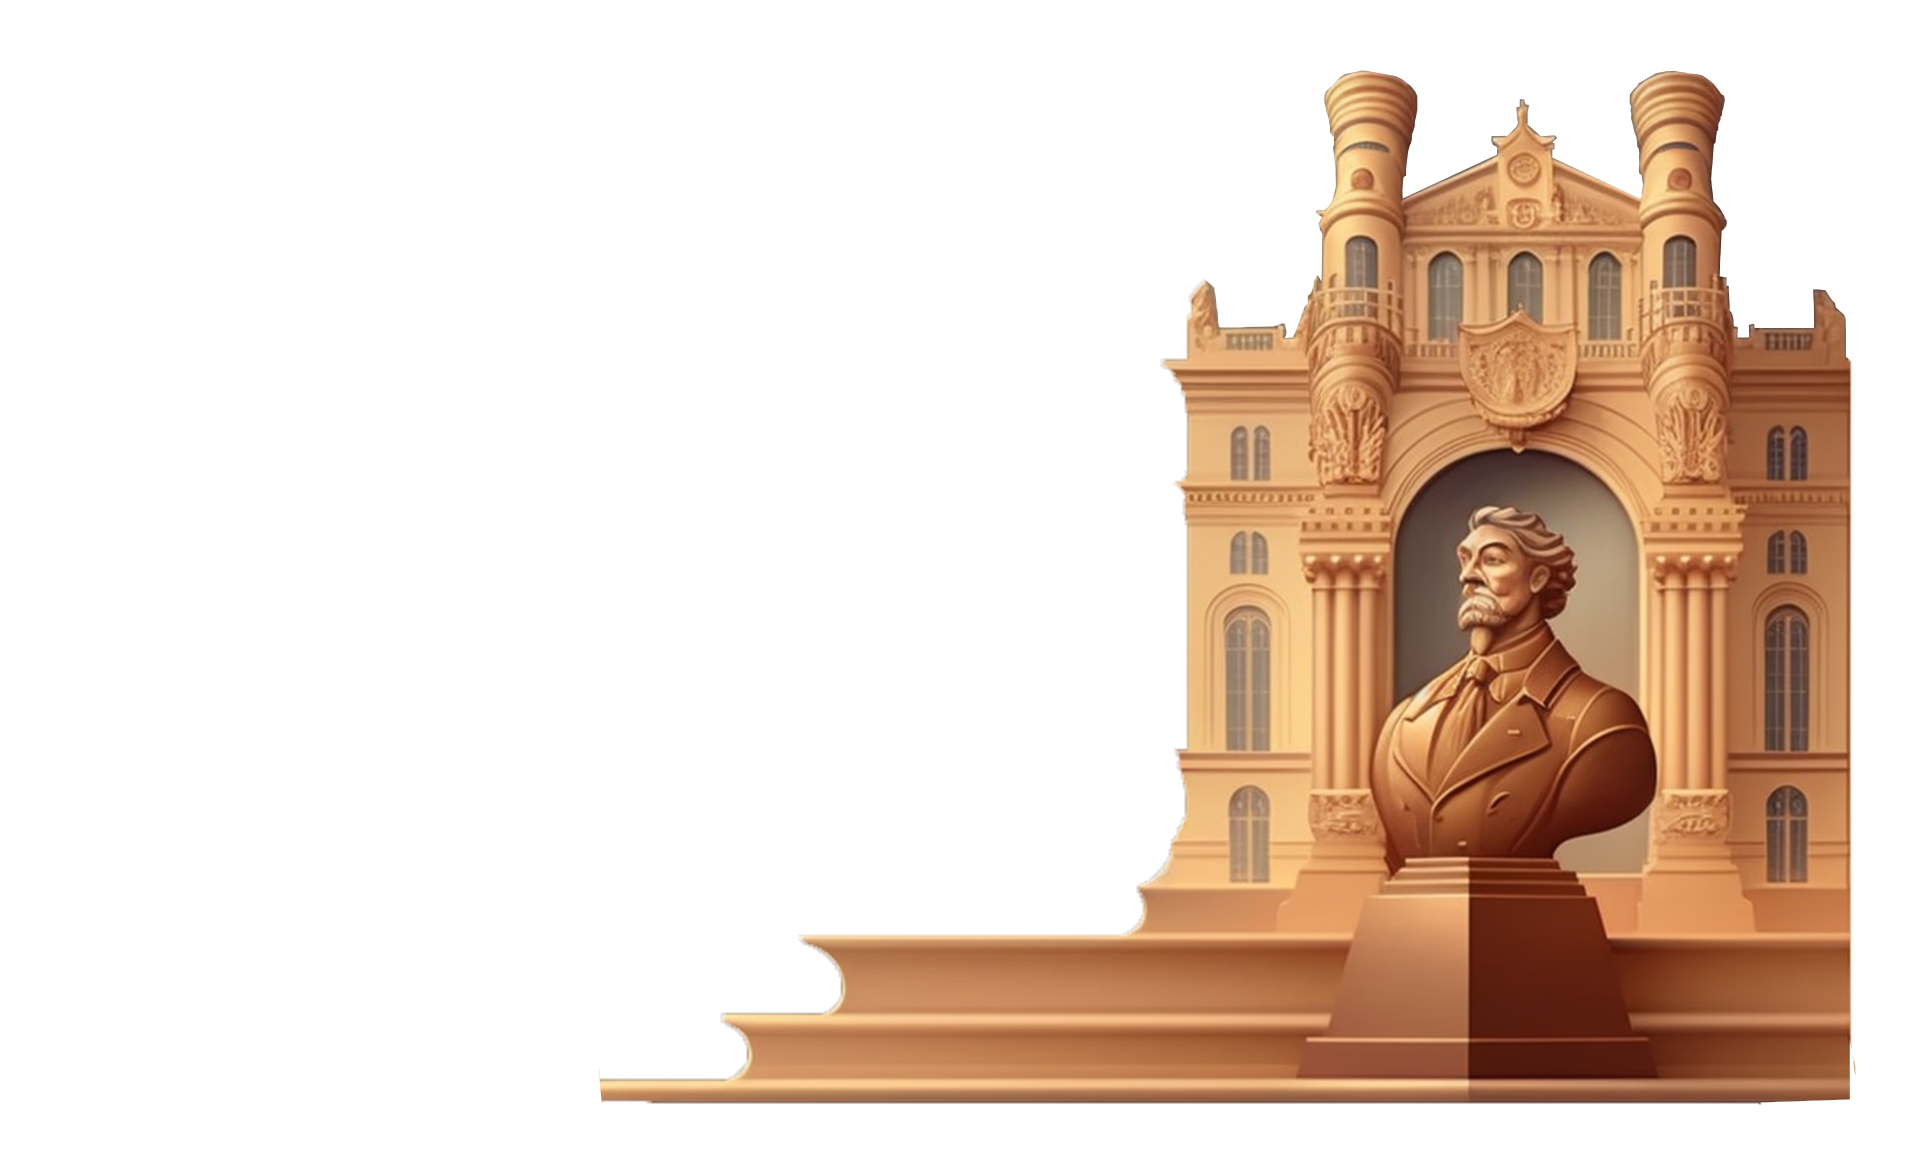
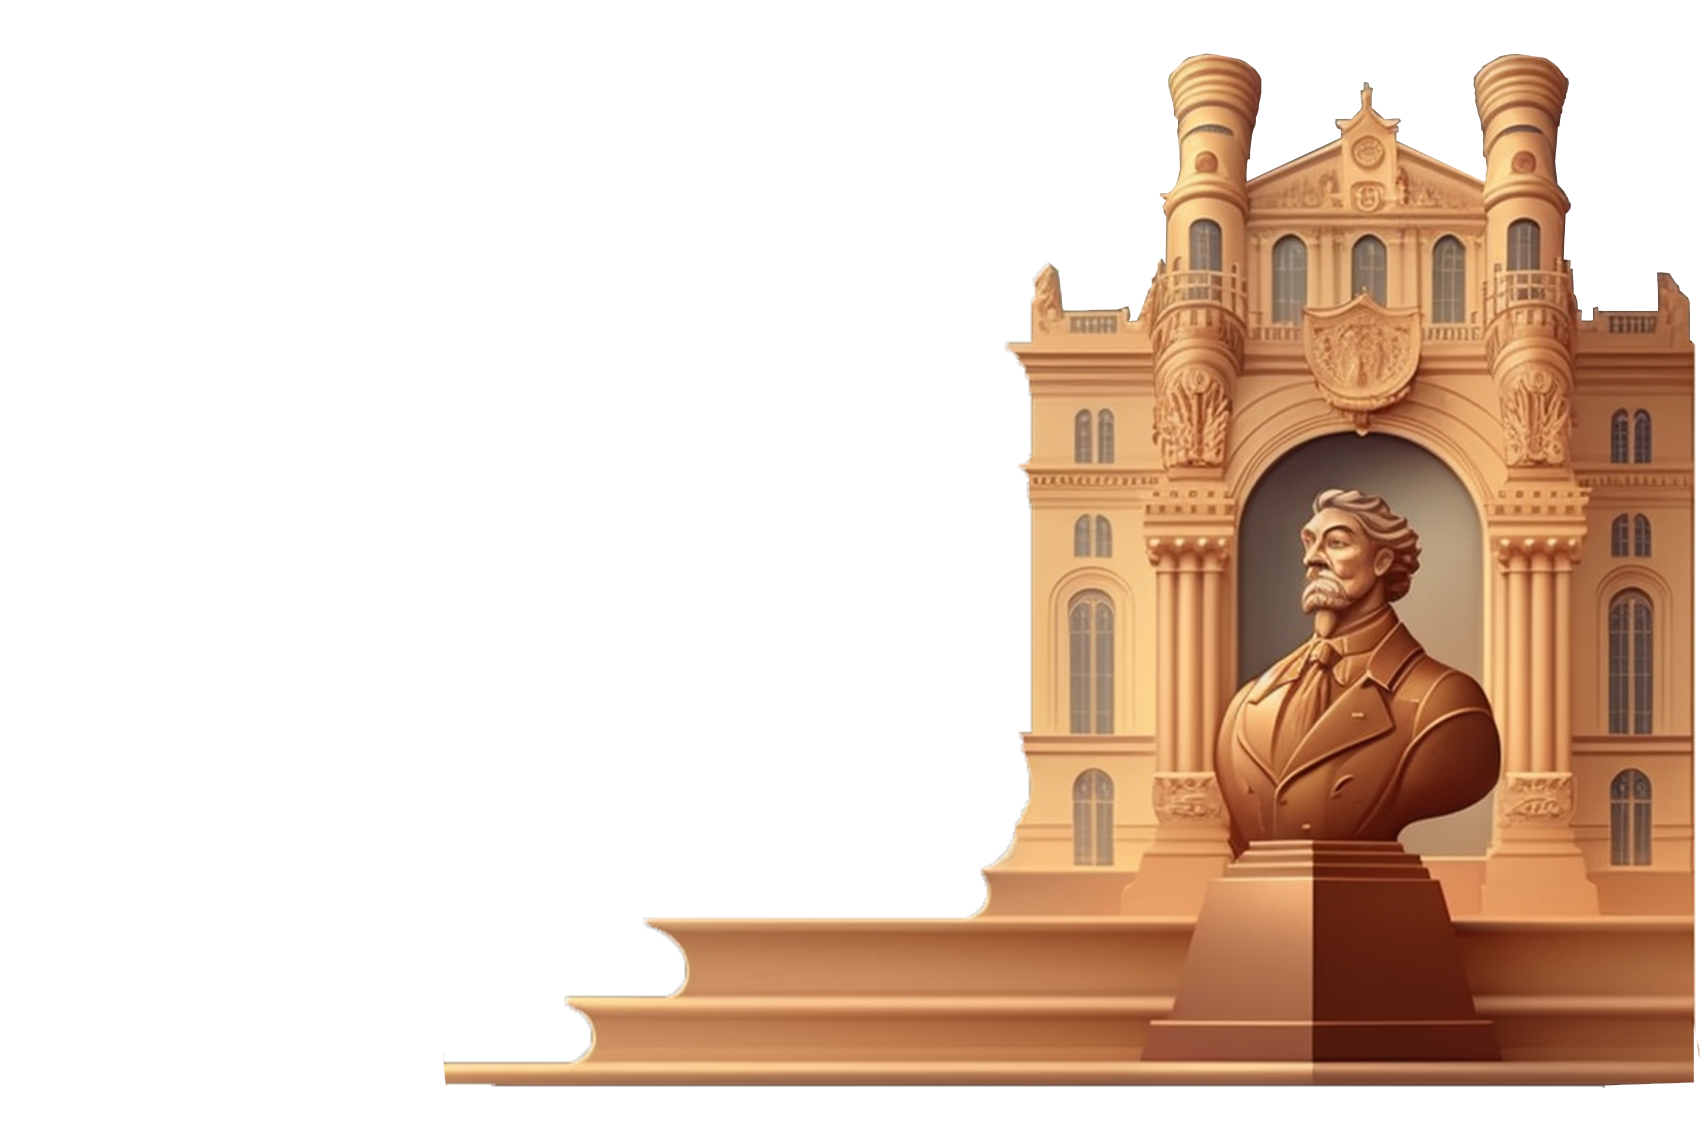
whyRussia almost done

Changed region(s): [[0.2494, 0.0308, 0.9976, 0.9551]]

diff --git a/src/pages/WhyRussia/Benefits.tsx b/src/pages/WhyRussia/Benefits.tsx
@@ -8,63 +8,70 @@ export default function Benefits() {
         {
             Title: "تعليم عالي الجودة",
             Par: "تشتهر روسيا بجامعاتها العالمية وبرامجها الأكاديمية في مجالات مثل الهندسة والرياضيات والطب.",
-            Row : "row-start-1",
+            Row: "row-start-1",
         },
         {
-            Title : "انخفاض تكلفة المعيشة",
+            Title: "انخفاض تكلفة المعيشة",
             Par: "تكلفة المعيشة في روسيا منخفضة نسبيًا ، مما يساعد الطلاب على توفير المال أثناء الدراسة.",
-            Row : "row-start-3",
+            Row: "row-start-3",
         },
         {
-            Title :"تعلم اللغة",
-            Par : "يمكن أن تكون الدراسة في روسيا فرصة ممتازة لتعلم أو تحسين مهاراتك في اللغة الروسية ، والتي يمكن أن تكون ذات قيمة لفرص وظيفية في المستقبل.",
-            Row : "row-start-5",
+            Title: "تعلم اللغة",
+            Par: "يمكن أن تكون الدراسة في روسيا فرصة ممتازة لتعلم أو تحسين مهاراتك في اللغة الروسية ، والتي يمكن أن تكون ذات قيمة لفرص وظيفية في المستقبل.",
+            Row: "row-start-5",
         },
         {
-            Title : "لشبكات الدولية",
-            Par :"توفر الدراسة في روسيا فرصًا للتواصل مع الطلاب والمهنيين الآخرين من جميع أنحاء العالم ، والتي يمكن أن تكون ذات قيمة لفرص العمل المستقبلية.",
-            Row :"row-start-7"
+            Title: "لشبكات الدولية",
+            Par: "توفر الدراسة في روسيا فرصًا للتواصل مع الطلاب والمهنيين الآخرين من جميع أنحاء العالم ، والتي يمكن أن تكون ذات قيمة لفرص العمل المستقبلية.",
+            Row: "row-start-7"
         },
         {
-            Title : "فرص البحث",
-            Par :"روسيا هي موطن للعديد من المؤسسات البحثية والمختبرات ، مما يوفر فرصًا للطلاب للمشاركة في المشاريع البحثية المتطورة.",
-            Row :"row-start-9"
+            Title: "فرص البحث",
+            Par: "روسيا هي موطن للعديد من المؤسسات البحثية والمختبرات ، مما يوفر فرصًا للطلاب للمشاركة في المشاريع البحثية المتطورة.",
+            Row: "row-start-9"
         }
-        
+
     ]
     const col3 = [
-        
+
         {
             Title: "الرسوم الدراسية بأسعار معقولة",
             Par: "مقارنة بالعديد من وجهات الدراسة الأخرى ، تقدم روسيا رسومًا دراسية ميسورة التكلفة للطلاب الدوليين.",
-            Row : "row-start-2"
+            Row: "row-start-2"
         },
         {
-            Title :"الانغماس الثقافي",
+            Title: "الانغماس الثقافي",
             Par: "يوفر العيش في روسيا تجربة غامرة للتراث الثقافي الغني للبلاد ، بما في ذلك الفن والموسيقى والأدب.",
             Row: "row-start-4"
         },
         {
-            Title : "الفرص الوظيفية",
-            Par : "يمكن أن يمنح التخرج من جامعة روسية للطلاب ميزة تنافسية في حياتهم المهنية ، لا سيما في مجالات مثل العلوم والهندسة والتكنولوجيا.",
+            Title: "الفرص الوظيفية",
+            Par: "يمكن أن يمنح التخرج من جامعة روسية للطلاب ميزة تنافسية في حياتهم المهنية ، لا سيما في مجالات مثل العلوم والهندسة والتكنولوجيا.",
             Row: "row-start-6"
         },
         {
-            Title : "فرص السفر",
-            Par :"روسيا بلد شاسع ومتنوع ، وتوفر الدراسة هناك فرصًا لاستكشاف مناطق وثقافات مختلفة.",
-            Row : "row-start-8"
+            Title: "فرص السفر",
+            Par: "روسيا بلد شاسع ومتنوع ، وتوفر الدراسة هناك فرصًا لاستكشاف مناطق وثقافات مختلفة.",
+            Row: "row-start-8"
         },
         {
-            Title : "السلامة والأمن",
-            Par : "تشتهر روسيا بكونها بلدًا آمنًا وآمنًا ، مع مستويات منخفضة من الجرائم العنيفة ووجود قوي للشرطة.",
-            Row : "row-start-10"
+            Title: "السلامة والأمن",
+            Par: "تشتهر روسيا بكونها بلدًا آمنًا وآمنًا ، مع مستويات منخفضة من الجرائم العنيفة ووجود قوي للشرطة.",
+            Row: "row-start-10"
         }
     ]
-    const col2 = [1,2,3,4,5,6,7,8,9,10]
+    const col2 = [1, 2, 3, 4, 5, 6, 7, 8, 9, 10]
 
     const HtmlCol1: Array<JSX.Element> = col1.map(({ Title, Par, Row }, i) => {
         return (
             <div key={i} className={"col-start-3 col-end-6 row-start-1 " + Row}>
+
+                <div className="md:hidden col-start-6 col-end-6 flex flex-col items-center select-none">
+                    <div className={"rounded-full w-10 h-10 flex justify-center items-center " + (state.dark ? "bg-[#FFFFFF]" : "bg-[#214966]")} >
+                        <p className="text-center text-[#DE9F67]">{i + 1}</p>
+                    </div>
+                </div>
+
                 <h1 className={'font-Cairo text-xl text-center ' + state.fontColor}>{Title}</h1>
                 <p className={'font-Cairo text-sm leading-relaxed text-center font-light ' + state.fontColor}>{Par}</p>
             </div>
@@ -72,30 +79,37 @@ export default function Benefits() {
     })
     const HtmlCol2: Array<JSX.Element> = col2.map((num, i) => {
         return (
-            <div key={i} className="col-start-6 col-end-6 flex flex-col items-center select-none">
+            <div key={i} className="hidden col-start-6 col-end-6 md:flex flex-col items-center select-none">
                 <div className={"rounded-full w-10 h-10 flex justify-center items-center " + (state.dark ? "bg-[#FFFFFF]" : "bg-[#214966]")} >
                     <p className="text-center text-[#DE9F67]">{num}</p>
                 </div>
-                <TbMinusVertical className="text-[#DE9F67] text-4xl" />
-                <TbMinusVertical className="text-[#DE9F67] text-4xl" />
+                <TbMinusVertical className="text-[#DE9F67] text-4xl " />
+                <TbMinusVertical className="text-[#DE9F67] text-4xl " />
             </div>
         )
     })
-    const HtmlCol3: Array<JSX.Element> = col3.map(({Title, Par, Row }, i) => {
+    const HtmlCol3: Array<JSX.Element> = col3.map(({ Title, Par, Row }, i) => {
         return (
-            <div className={"col-start-7 col-end-10 " + Row }>
-            <h1 className={'font-Cairo text-xl text-center ' + state.fontColor}>{Title}</h1>
-            <p className={'font-Cairo text-sm leading-relaxed  text-center font-light ' + state.fontColor}>{Par}</p>
-        </div>
+            <div key={i} className={"col-start-7 col-end-10 " + Row}>
+
+                <div className="md:hidden col-start-6 col-end-6 flex flex-col items-center select-none">
+                    <div className={"rounded-full w-10 h-10 flex justify-center items-center " + (state.dark ? "bg-[#FFFFFF]" : "bg-[#214966]")} >
+                        <p className="text-center text-[#DE9F67]">{i + 6}</p>
+                    </div>
+                </div>
+
+                <h1 className={'font-Cairo text-xl text-center ' + state.fontColor}>{Title}</h1>
+                <p className={'font-Cairo text-sm leading-relaxed  text-center font-light ' + state.fontColor}>{Par}</p>
+            </div>
         )
     })
 
     return (
         <div className="w-full mt-14 md:mt-0 flex justify-center ">
-            <div className={" shadow-lg rounded-2xl w-full max-w-6xl grid grid-cols-11  grid-rows-12 py-10 " + state.bgColor + state.shadowColor}>
-               {HtmlCol1}
-               {HtmlCol2}
-               {HtmlCol3}
+            <div className={"shadow-lg rounded-2xl w-full max-w-6xl md:grid grid-cols-11 grid-rows-12 py-10 mx-2 " + state.bgColor + state.shadowColor}>
+                {HtmlCol1}
+                {HtmlCol2}
+                {HtmlCol3}
             </div>
         </div>
     )

diff --git a/src/pages/WhyRussia/WhyRussiaHero.tsx b/src/pages/WhyRussia/WhyRussiaHero.tsx
@@ -6,11 +6,11 @@ export default function WhyRussiaHero() {
     const { state } = useMyContext();
 
     return (
-        <div className="w-full mt-14 md:mt-10 flex justify-center  ">
-            <div className="w-full max-w-6xl h-screen flex justify-start items-center bg-WhyRussia-hero-pattern bg-no-repeat bg-right-bottom bg-[length:cover] ">
-                <div className="text-right md:w-1/3 mr-16 ">
-                    <h1 className="font-Cairo text-base md:text-3xl font-extrabold mb-2 md:mb-8 leading-normal text-[#DE9F67] md:-mr-10 md:text-center ">الدراسة في روسيا: تجربة فريدة وبأسعار معقولة</h1>
-                    <p className={"font-Cairo text-xs md:text-sm font-light md:-mr-10 text-right tracking-wide " + state.fontColor} >الدراسة في روسيا تجربة فريدة وثرية تتيح فرصًا لا مثيل لها للطلاب الذين يبحثون عن توسيع آفاقهم. تتميز الجامعات الروسية بتراث ثقافي غني ومدن حيوية وجامعات عالمية المستوى في مجالات مثل الهندسة والطب والرياضيات. بالإضافة إلى ذلك، فإن الرسوم الدراسية في روسيا معقولة وتكاليف المعيشة منخفضة، مما يجعل الدراسة في روسيا خيارًا ميسور التكلفة للعديد من الطلاب. يمكن لاختيار روسيا كوجهة للدراسة فتح عالمًا من الفرص وتوفير منظور عالمي ثمين سيفيد الطلاب طوال حياتهم الأكاديمية والمهنية.</p>
+        <div className="w-screen h-screen mt-10 flex justify-center  ">
+            <div className="w-screen max-w-6xl h-screen mx-2 flex items-center bg-WhyRussia-heroSS md:bg-WhyRussia-hero bg-[length:250%_100%] md:bg-[length:100%_100%] bg-right bg-no-repeat">
+                <div className="text-right md:w-1/2 md:ml-10 mx-4">
+                    <h1 className="font-Cairo text-base md:text-3xl font-extrabold mb-2 leading-normal text-[#DE9F67] text-center ">الدراسة في روسيا: تجربة فريدة وبأسعار معقولة</h1>
+                    <p className={"font-Cairo text-xs font-light tracking-wide text-center " + state.fontColor} >الدراسة في روسيا تجربة فريدة وثرية تتيح فرصًا لا مثيل لها للطلاب الذين يبحثون عن توسيع آفاقهم. تتميز الجامعات الروسية بتراث ثقافي غني ومدن حيوية وجامعات عالمية المستوى في مجالات مثل الهندسة والطب والرياضيات. بالإضافة إلى ذلك، فإن الرسوم الدراسية في روسيا معقولة وتكاليف المعيشة منخفضة، مما يجعل الدراسة في روسيا خيارًا ميسور التكلفة للعديد من الطلاب. يمكن لاختيار روسيا كوجهة للدراسة فتح عالمًا من الفرص وتوفير منظور عالمي ثمين سيفيد الطلاب طوال حياتهم الأكاديمية والمهنية.</p>
                 </div>
                 
             </div>
